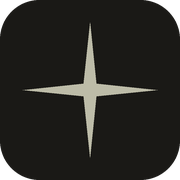
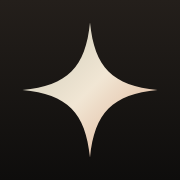
Gradients throughout and UI polish
- Every section gets its own soft copper/sage light; italic accents, big
  numbers, chapter titles and the active film name carry the tone gradient
- Facts with gradient hairlines; steps with copper bars and gradient
  numerals; FAQ with fading hairlines, lit open card and copper chevrons
- Warm frames on pictures, hover sheen on buttons, copper link underlines,
  warm focus glow on form fields, copper reading line across the top
- Gradient small logo, footer/simple-page logos and favicons
- Soft cross-fade between pages (view transitions)
- Fixes: chapters were invisible with reduced motion; chapter buttons sit
  in a row; letterbox titles no longer wrap on phones

Claude-Session: https://claude.ai/code/session_01BA7LQE2FfR9Ho1t74sEvZJ

diff --git a/src/styles.css b/src/styles.css
@@ -877,7 +877,8 @@ body::after {
 /* without the script, or with reduced motion, the chapters simply stack */
 .no-js .chapter, .reduced .chapter { position: relative; inset: auto; height: 84svh; opacity: 1; visibility: visible; }
 @media (prefers-reduced-motion: reduce) {
-  .chapter { position: relative; inset: auto; height: 84svh; opacity: 1; visibility: visible; }
+  .chapter, .js .chapter, .js .chapter.is-off { position: relative; inset: auto; height: 84svh; opacity: 1; visibility: visible; }
+  .js .chapter-card { opacity: 1; translate: none; }
   .chapters-stage { height: auto; }
   .chapter-loop { display: none; }
   .ch-dots { display: none; }
@@ -1177,4 +1178,103 @@ a.voices-score:hover .voices-of > span:last-child { color: var(--on-night); text
   .bar-nav { gap: 22px; }
   .bar-cta::after { display: none; }
 }
+
+/* ========== GRADIENTS THROUGHOUT + UI POLISH ========== */
+:root { --g-tone: linear-gradient(100deg, #C9C8B4 0%, #F1E6D4 50%, #D9A88A 100%); --g-copper: linear-gradient(135deg, #E2B79C, #A8674A); --g-line: linear-gradient(90deg, rgba(217, 168, 138, 0.9), rgba(217, 168, 138, 0)); }
+::selection { background: rgba(201, 150, 122, 0.45); color: #fff; }
+html { scrollbar-color: #5a4236 #0e0d0c; }
+
+/* a reading line across the top of the page */
+.scroll-line { position: fixed; top: 0; left: 0; right: 0; height: 2px; z-index: 60; background: var(--g-copper); transform-origin: 0 50%; transform: scaleX(var(--read, 0)); pointer-events: none; opacity: 0.9; }
+
+/* every section sits on its own light: one glow from the side, one from below */
+.intro, .films, .about, .commercial, .faq, .booking, .edit { position: relative; isolation: isolate; }
+.intro::before, .films::after, .about::before, .commercial::before {
+  content: ''; position: absolute; inset: 0; z-index: -1; pointer-events: none;
+  -webkit-mask-image: linear-gradient(transparent, #000 15%, #000 85%, transparent); mask-image: linear-gradient(transparent, #000 15%, #000 85%, transparent);
+}
+.intro::before { background: radial-gradient(55% 45% at 95% 15%, rgba(201, 150, 122, 0.2), transparent 70%), radial-gradient(50% 40% at 0% 75%, rgba(189, 188, 168, 0.12), transparent 70%), linear-gradient(180deg, rgba(122, 74, 53, 0.08), transparent 40%); }
+.films::after { background: radial-gradient(60% 35% at 10% 8%, rgba(201, 150, 122, 0.18), transparent 70%), radial-gradient(50% 30% at 100% 92%, rgba(189, 188, 168, 0.1), transparent 70%); }
+.about::before { background: radial-gradient(55% 50% at 0% 40%, rgba(189, 188, 168, 0.14), transparent 70%), radial-gradient(50% 45% at 100% 70%, rgba(201, 150, 122, 0.2), transparent 70%); }
+.commercial::before { background: linear-gradient(120deg, rgba(122, 74, 53, 0.16), transparent 55%); }
+.faq::before { background: radial-gradient(55% 45% at 0% 10%, rgba(201, 150, 122, 0.18), transparent 70%), radial-gradient(45% 40% at 100% 90%, rgba(189, 188, 168, 0.1), transparent 70%) !important; }
+.booking::before { background: radial-gradient(55% 55% at 100% 20%, rgba(189, 188, 168, 0.12), transparent 70%), radial-gradient(50% 50% at 0% 100%, rgba(201, 150, 122, 0.2), transparent 70%) !important; }
+
+/* headings: every italic accent and the big numbers carry the tone */
+.h-head em, .facts dt, .index-row.is-active .index-name, .about .h-display em, .commercial .h-head em {
+  background: var(--g-tone); -webkit-background-clip: text; background-clip: text; -webkit-text-fill-color: transparent;
+}
+.facts { gap: clamp(16px, 2vw, 28px); }
+.facts > div { flex: 1; padding: 22px 0 0; position: relative; }
+.facts > div::before { content: ''; position: absolute; top: 0; left: 0; right: 12%; height: 1px; background: var(--g-line); }
+.facts dt { padding-right: 0.05em; }
+
+/* pictures sit in a faint warm frame */
+.intro-pic .shot-frame, .about-pic, .fwatch-frame, .suite { box-shadow: 0 0 0 1px rgba(217, 168, 138, 0.18), 0 40px 80px -30px rgba(0, 0, 0, 0.8), 0 0 80px -20px rgba(201, 150, 122, 0.18); }
+.shot-frame { position: relative; }
+.shot-frame::after { content: ''; position: absolute; inset: 0; pointer-events: none; background: linear-gradient(to top, rgba(122, 74, 53, 0.22), transparent 40%); opacity: 0; transition: opacity 600ms ease; }
+.shot-btn:hover .shot-frame::after { opacity: 1; }
+
+/* steps: a copper bar and a numeral */
+.step::before { background: var(--g-copper); height: 2px; }
+.step .h-head::before { content: counter(step, decimal-leading-zero); display: block; margin-bottom: 10px; font: italic 400 clamp(40px, 3.6vw, 56px)/1 var(--serif); background: var(--g-tone); -webkit-background-clip: text; background-clip: text; -webkit-text-fill-color: transparent; opacity: 0.9; }
+.edit-steps .step .h-head::before { font-size: clamp(32px, 2.8vw, 44px); }
+
+/* questions: hairlines that fade, open answers on a lit card */
+.faq-item { position: relative; border-radius: 10px; }
+.faq-item + .faq-item::before { content: ''; position: absolute; top: 0; left: 24px; right: 24px; height: 1px; background: linear-gradient(90deg, rgba(241, 238, 231, 0.14), rgba(241, 238, 231, 0.02)); }
+.faq-item:hover { background: linear-gradient(100deg, rgba(241, 238, 231, 0.05), transparent 70%); }
+.faq-item[open] { background: linear-gradient(140deg, rgba(201, 150, 122, 0.16), rgba(36, 32, 28, 0.6) 60%); box-shadow: inset 0 0 0 1px rgba(217, 168, 138, 0.25), 0 30px 60px -30px rgba(0, 0, 0, 0.8); }
+.faq-item[open] + .faq-item::before, .faq-item[open]::before { opacity: 0; }
+.faq-a p { color: var(--on-night-soft); }
+.chev { width: 30px; height: 30px; border-radius: 50%; box-shadow: inset 0 0 0 1px rgba(241, 238, 231, 0.2); display: inline-grid; place-items: center; flex: none; transition: transform var(--t-ui) var(--ease-out), background var(--t-hover) ease, box-shadow var(--t-hover) ease; }
+.faq-item[open] .chev, .faq-item:hover .chev { background: var(--g-copper); box-shadow: none; }
+
+/* about: the record headings in copper capitals */
+.about-record h3, .about-facts dt { font: 500 12px/1.4 var(--sans); letter-spacing: 0.18em; text-transform: uppercase; color: #E2B79C; }
+.about-record li { color: var(--on-night); }
+.about-record a { color: inherit; text-underline-offset: 3px; }
+
+/* sound moments: a fine gradient ring */
+.moments li { border: 0; box-shadow: inset 0 0 0 1px rgba(217, 168, 138, 0.3); background: linear-gradient(135deg, rgba(201, 150, 122, 0.1), transparent); }
+
+/* buttons: a light sheen passes across on hover */
+.btn { position: relative; overflow: hidden; isolation: isolate; }
+.btn:not(.bar-cta)::after { content: ''; position: absolute; inset: 0; z-index: -1; background: linear-gradient(110deg, transparent 30%, rgba(255, 255, 255, 0.28) 50%, transparent 70%); translate: -120% 0; transition: translate 800ms var(--ease-expo); }
+.btn:not(.bar-cta):hover::after { translate: 120% 0; }
+.btn-ghost { background: linear-gradient(160deg, rgba(241, 238, 231, 0.16), rgba(241, 238, 231, 0.06)); box-shadow: inset 0 0 0 1px rgba(241, 238, 231, 0.18); }
+
+/* text links get a copper underline */
+.text-link, .link-row a:not(.btn), .intro-links a:not(.btn), .related-links a { text-decoration-color: rgba(217, 168, 138, 0.6); }
+.text-link:hover, .link-row a:not(.btn):hover, .intro-links a:not(.btn):hover { text-decoration-color: #E2B79C; }
+
+/* form fields: a warm focus glow instead of a plain ring */
+.contact-form input, .contact-form select, .contact-form textarea { transition: box-shadow var(--t-hover) ease, background var(--t-hover) ease; }
+.contact-form input:focus, .contact-form select:focus, .contact-form textarea:focus { outline: none; box-shadow: inset 0 0 0 1.5px #C9967A, 0 0 0 4px rgba(201, 150, 122, 0.18); }
+
+/* chapters: the progress lines fill in copper */
+.ch-dot-fill { background: var(--g-copper) !important; }
+@media (max-width: 760px) {
+  .facts { flex-wrap: wrap; }
+  .facts > div { flex: 1 1 40%; }
+}
+.faq-item .chev::before, .faq-item .chev::after { top: 14px; }
+.faq-item .chev::before { left: 7px; }
+.faq-item .chev::after { right: 7px; }
+.chapter-card { flex-flow: row wrap; align-items: center; column-gap: 0; }
+.chapter-card > :not(.btn):not(.chapter-more) { flex-basis: 100%; }
+.chapter-more { margin: 8px 0 0 22px; }
+.chapter-title, .fhero-copy .chapter-title { background: linear-gradient(100deg, #F6EFE3 0%, #F1E6D4 45%, #E2B79C 100%); -webkit-background-clip: text; background-clip: text; -webkit-text-fill-color: transparent; padding-right: 0.08em; }
+@media (max-width: 760px) { .chapter-more { margin: 8px 0 0 18px; } }
+.chapters-stage > .letterbox-bottom { margin-top: auto; }
+.chapters-stage .letterbox-top > span { white-space: nowrap; overflow: hidden; text-overflow: ellipsis; min-width: 0; }
+@media (max-width: 760px) { .chapters-stage .letterbox { font-size: 11px; letter-spacing: 0.14em; } }
+/* moving between pages: a soft cross-fade instead of a hard cut */
+@view-transition { navigation: auto; }
+@media (prefers-reduced-motion: no-preference) {
+  ::view-transition-old(root) { animation: vt-out 420ms cubic-bezier(0.4, 0, 1, 1) both; }
+  ::view-transition-new(root) { animation: vt-in 700ms cubic-bezier(0.22, 1, 0.36, 1) both; }
+}
+@keyframes vt-out { to { opacity: 0; filter: blur(6px); } }
+@keyframes vt-in { from { opacity: 0; translate: 0 18px; filter: blur(6px); } }
 /* taste-skill-ignore-end */

diff --git a/src/main.js b/src/main.js
@@ -245,6 +245,13 @@
     if (sheen.length) setTimeout(() => sheen.forEach((a) => { try { a.beginElement(); } catch (e) {} }), 3900);
   }
 
+  // a fine copper line across the top shows how far down the page you are
+  const readLine = document.createElement('div');
+  readLine.className = 'scroll-line'; readLine.setAttribute('aria-hidden', 'true');
+  document.body.appendChild(readLine);
+  const setRead = () => readLine.style.setProperty('--read', (scrollY / Math.max(1, document.documentElement.scrollHeight - innerHeight)).toFixed(4));
+  addEventListener('scroll', setRead, { passive: true }); setRead();
+
   // The edit: the playhead and timecode run along the timeline as the section passes.
   const edits = reduceMotion ? [] : [...document.querySelectorAll('[data-edit]')].map((sec) => {
     const suite = sec.querySelector('.suite');
